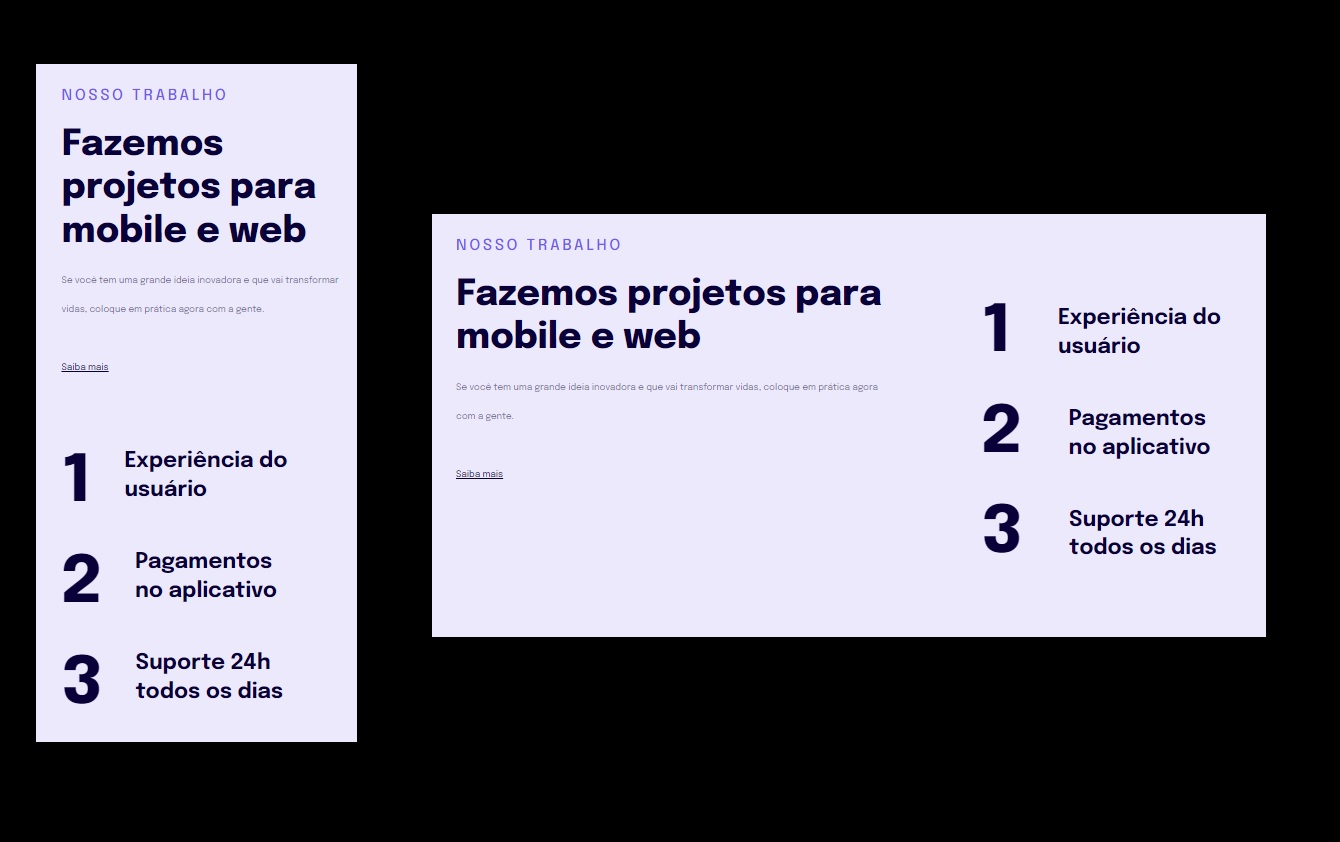
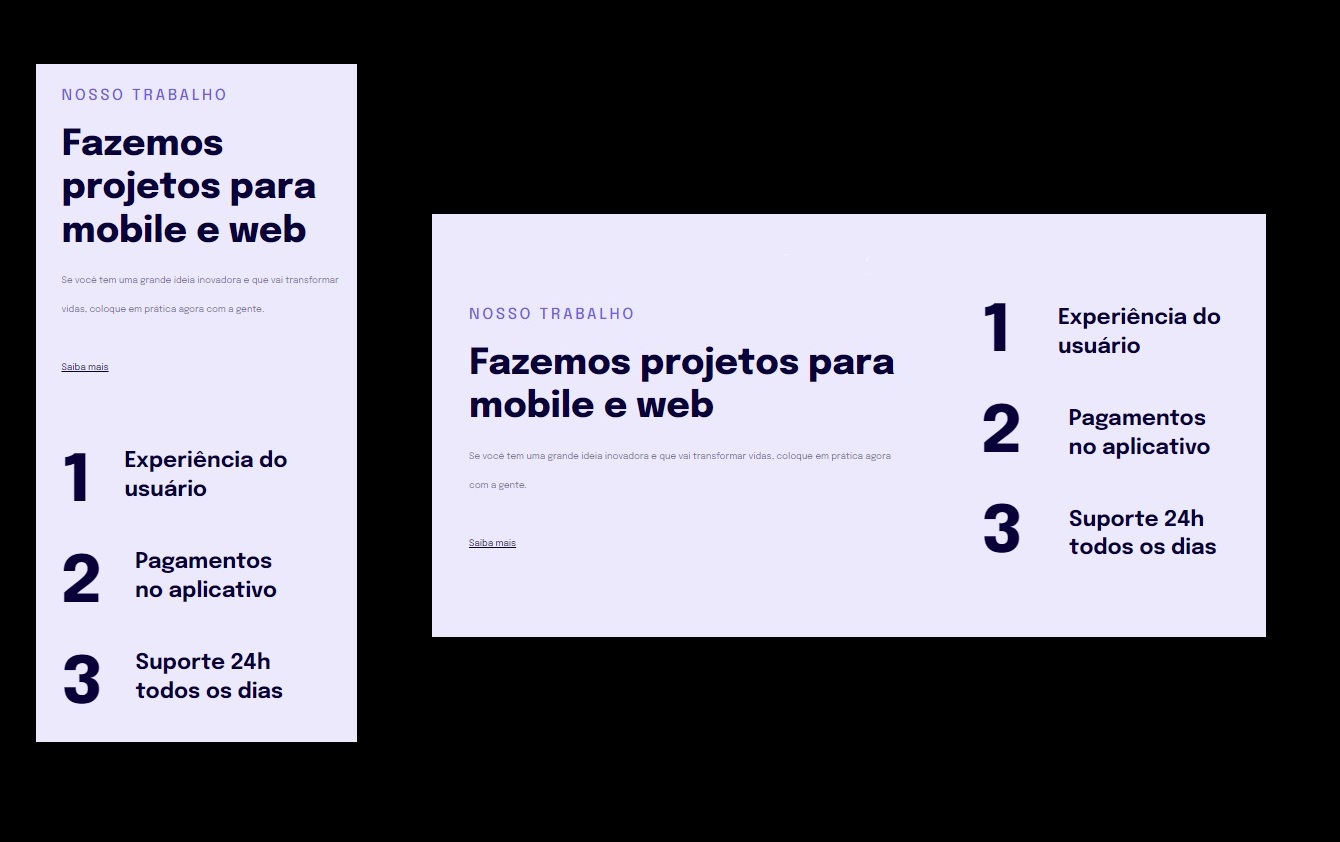
Update Responsividade

diff --git a/stage_03/responsividade/index.css b/stage_03/responsividade/index.css
@@ -88,7 +88,7 @@ ul li span {
     }
 
     .text {
-        padding-top: 300px;
+        padding-top: 105px;
         max-width: 484px;
     }
 

diff --git a/stage_03/readme.md b/stage_03/readme.md
@@ -24,7 +24,7 @@ As pastas de cada projetos se encontram nos links abaixo:
     </li>
     <li><a href="" style="color:white;">Responsividade</a>
         <ul>
-            <li><a href="" style="color:white;">Responsividade</a></li>
+            <li><a href="https://devaugustow.github.io/rocketseat_explorer/stage_03/responsividade/index.html" style="color:white;">Responsividade</a></li>
         </ul>
     </li><br>
     <li><a href="" style="color:white;">Avançando no CSS</a>

diff --git a/stage_03/responsividade/readme.md b/stage_03/responsividade/readme.md
@@ -10,7 +10,7 @@ Primeiro projeto responsivo do Bootcamp. Página feita com técnicas básicas de
 O projeto pode ser acessado pelo lnk abaixo:
 
 <ul>
-    <li><a href="#" target="_blank" style="color: white;">Primeiro Projeto Responsivo</a></p>
+    <li><a href="https://devaugustow.github.io/rocketseat_explorer/stage_03/responsividade/index.html" target="_blank" style="color: white;">Primeiro Projeto Responsivo</a></p>
 </ul>
 
 <br> 
